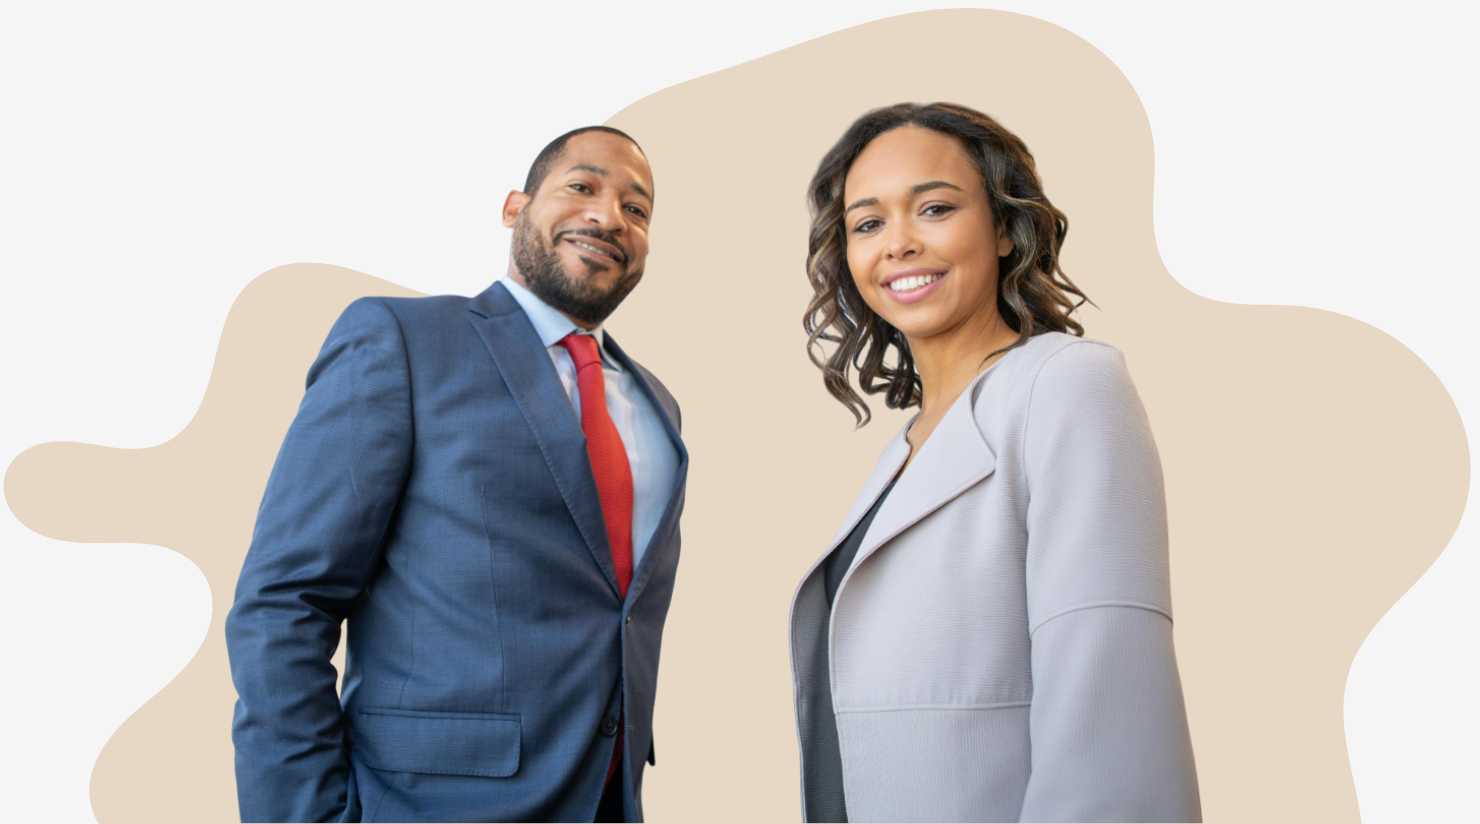
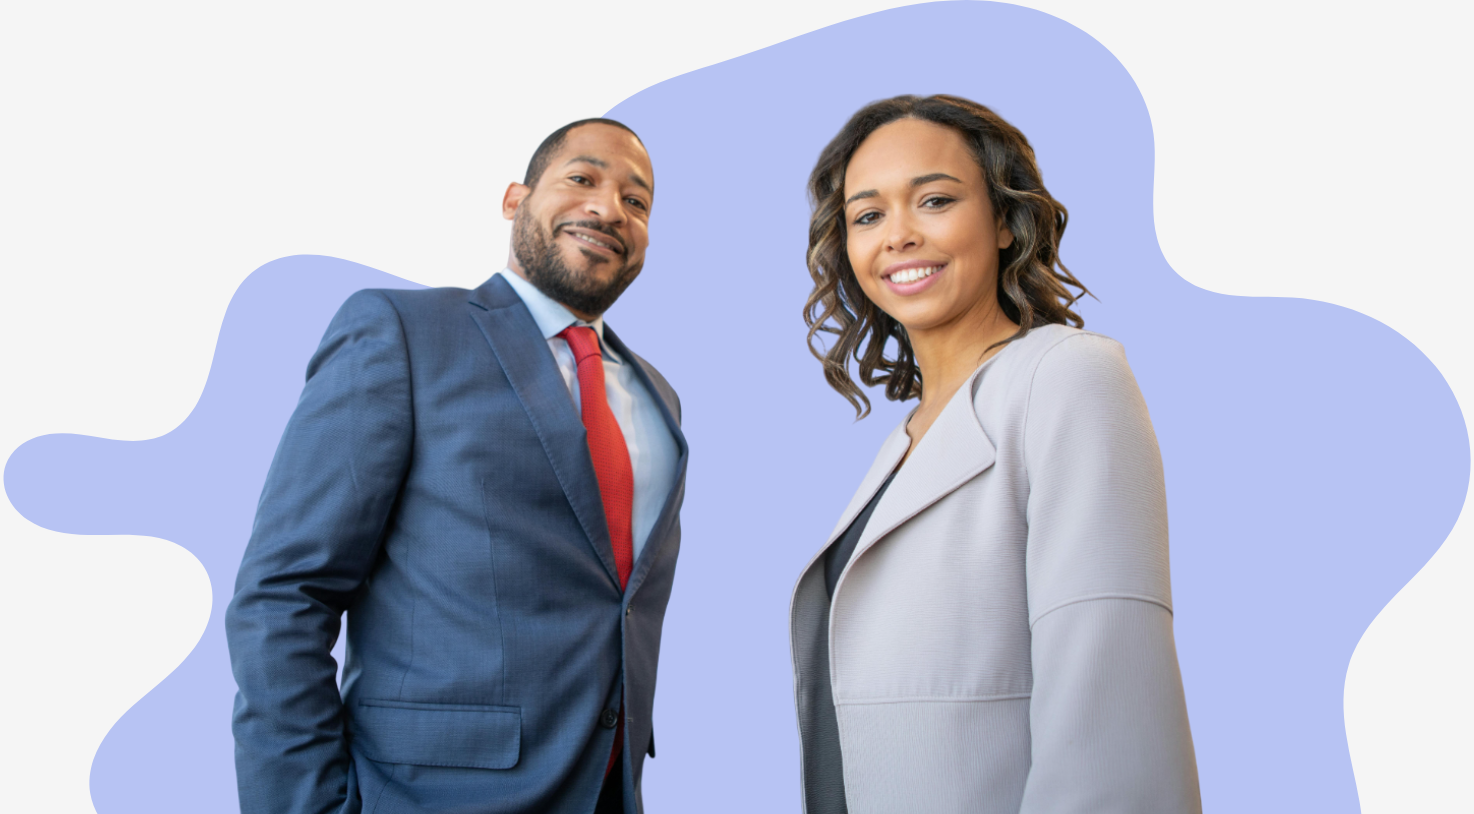
landing page done

diff --git a/src/app/pages/landing-page/landing-page.component.html b/src/app/pages/landing-page/landing-page.component.html
@@ -62,7 +62,6 @@
         >
           <span class="text-blu fs-6"> Professional </span>
         </button>
-        <h4 class="fw-light">and share your story!</h4>
       </div>
     </div>
   </div>

diff --git a/src/styles.scss b/src/styles.scss
@@ -3,7 +3,7 @@
 
 $custom-colors: (
   "background": #f5f5f5,
-  "blu": #03293a,
+  "blu": #035476ee,
   "verde": #a9edc4,
   "rosso": #e34444,
   "secondarybg": #f3ebe2,
